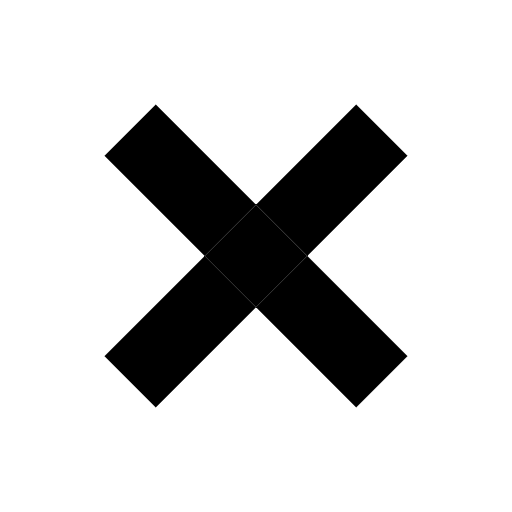
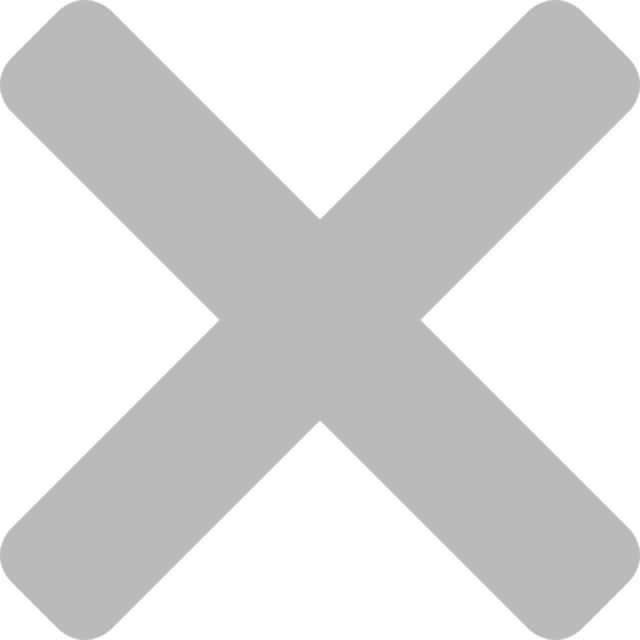
Visa flashmeddelanden vid registrering och inloggning

diff --git a/src/components/Login.js b/src/components/Login.js
@@ -1,5 +1,7 @@
 import { useLocation, useNavigate, Link } from 'react-router-dom'
 import { useState } from 'react'
+import FlashError from './FlashError.js'
+import FlashSuccess from './FlashSuccess.js'
 
 /**
  * The Login component.
@@ -7,13 +9,13 @@ import { useState } from 'react'
  * @returns {object} The jsx html template.
  */
 function Login () {
-  const location = useLocation()
-  const success = location.state?.success
-
   const [username, setUsername] = useState('')
   const [password, setPassword] = useState('')
 
   const [isLoading, setIsLoading] = useState(false)
+
+  const location = useLocation()
+  const [success, setSuccess] = useState(location.state?.success)
   const [error, setError] = useState(null)
 
   const navigate = useNavigate()
@@ -43,6 +45,7 @@ function Login () {
         // Kom ihåg att spara undan JWT i local storage
         navigate('/home', { state: { success: 'Successfull authentication' } })
       } else {
+        setSuccess(null)
         if (res.status === 401) {
           setError('Authentication failed: Wrong username and/or password.')
         } else if (res.status === 404) {
@@ -52,6 +55,7 @@ function Login () {
         }
       }
     }).catch(err => {
+      setSuccess(null)
       console.log(err)
       setError('Authentication failed: Network error, please try again later.')
       setIsLoading(false)
@@ -60,8 +64,8 @@ function Login () {
 
   return (
     <div className='login'>
-      { success && <div className='flash success'>{ success }</div> }
-      { error && <div className='flash error'>{ error }</div> }
+      { success && <FlashSuccess success={ success } setSuccess={setSuccess}></FlashSuccess> }
+      { error && <FlashError error={ error } setError={setError}></FlashError> }
       <form
         onSubmit={ handleSubmit }>
         <label>Username:</label>
@@ -75,7 +79,6 @@ function Login () {
         <input
           type="password"
           required
-          minLength="10"
           value={ password }
           onChange={ (e) => setPassword(e.target.value) }>
         </input>

diff --git a/src/components/Register.js b/src/components/Register.js
@@ -1,5 +1,6 @@
 import { useState } from 'react'
 import { Link, useNavigate } from 'react-router-dom'
+import FlashError from './FlashError.js'
 
 /**
  * The Register component.
@@ -17,14 +18,6 @@ function Register () {
   const [error, setError] = useState(null)
 
   const navigate = useNavigate()
-
-  /**
-   * Handles the click event.
-   *
-   */
-  const handleClick = () => {
-    setError(null)
-  }
 
   /**
    * Handles the submit event.
@@ -48,7 +41,7 @@ function Register () {
     }).then(res => {
       setIsLoading(false)
       if (res.ok) {
-        navigate('/login', { state: { success: 'Successfull registration' } })
+        navigate('/login', { state: { success: 'Successfull registration!' } })
       } else {
         if (res.status === 400) {
           setError('Registration failed: Data input not correctly formatted.')
@@ -63,22 +56,14 @@ function Register () {
     }).catch(err => {
       console.log(err)
       setError('Registration failed: Network error, please try again later.')
+      console.log(error)
       setIsLoading(false)
     })
   }
 
   return (
     <div className="register">
-      {/* { error &&
-        <div className='flash error'>
-          <button type="button" onClick={ handleClick }></button>
-          <div>{ error }</div>
-        </div>
-      } */}
-      <div className='flash error'>
-        <button type="button" onClick={ handleClick }></button>
-        <div>Felmeddelande eeeeeeeeeeeeeeeeeeeee {error} </div>
-      </div>
+      { error && <FlashError error={ error } setError={ setError }></FlashError> }
       <form
         onSubmit={ handleSubmit }>
         <label>Username:</label>

diff --git a/src/index.css b/src/index.css
@@ -56,7 +56,7 @@ button:hover {
 }
 
 .navbar-anonymous a:hover, .navbar-anonymous a:active {
-  color: rgb(139, 151, 139);
+  color: rgb(181, 196, 181);
 }
 
 /* Styling of footer */
@@ -188,8 +188,9 @@ button:hover {
   text-decoration: underline;
 }
 
-.register .flash {
-  background-color: rgb(199, 116, 116);
+/* Styling of flash-messages */
+
+.flash {
   color: rgb(255, 255, 255);
   max-width: 500px;
   width: 200px;
@@ -202,14 +203,22 @@ button:hover {
   border-radius: 5px;
 }
 
-.register .flash button[type="button"] {
+.flash.error {
+  background-color: rgb(199, 116, 116);
+}
+
+.flash.success {
+  background-color: rgb(181, 196, 181);
+}
+
+.flash button[type="button"] {
   width: 15px;
   height: 15px;
-  background-image: url("/public/images/cross.png");
-  background-size: contain;
+  background: no-repeat center/80% url("/public/images/cross-grey.png");
+  background-color: rgba(255, 255, 255, 0.774);
   position: absolute;
   right: 5px;
   top: 5px;
   border: none;
+  border-radius: 3px;
 }
-

diff --git a/src/components/FlashSuccess.js b/src/components/FlashSuccess.js
@@ -1,0 +1,28 @@
+/**
+ * The FlashSuccess component.
+ *
+ * @param {object} root0 - The props object.
+ * @param {string} root0.success - The success state.
+ * @param {Function} root0.setSuccess - The setter for message.
+ * @returns {object} The jsx html template.
+ */
+function FlashSuccess ({ success, setSuccess }) {
+  /**
+   * Handles click events.
+   *
+   */
+  const handleClick = () => {
+    setSuccess(null)
+  }
+
+  return (
+    <div className="flash-success">
+      <div className="flash success">
+          <button type="button" onClick={ handleClick }></button>
+          <div>{ success }</div>
+        </div>
+    </div>
+  )
+}
+
+export default FlashSuccess

diff --git a/src/components/FlashError.js b/src/components/FlashError.js
@@ -1,0 +1,28 @@
+/**
+ * The FlashError component.
+ *
+ * @param {object} root0 - The props object.
+ * @param {string} root0.error - The message state.
+ * @param {Function} root0.setError - The setter for message.
+ * @returns {object} The jsx html template.
+ */
+function FlashError ({ error, setError }) {
+  /**
+   * Handles click events.
+   *
+   */
+  const handleClick = () => {
+    setError(null)
+  }
+
+  return (
+    <div className="flash-error">
+      <div className="flash error">
+          <button type="button" onClick={ handleClick }></button>
+          <div>{ error }</div>
+        </div>
+    </div>
+  )
+}
+
+export default FlashError
